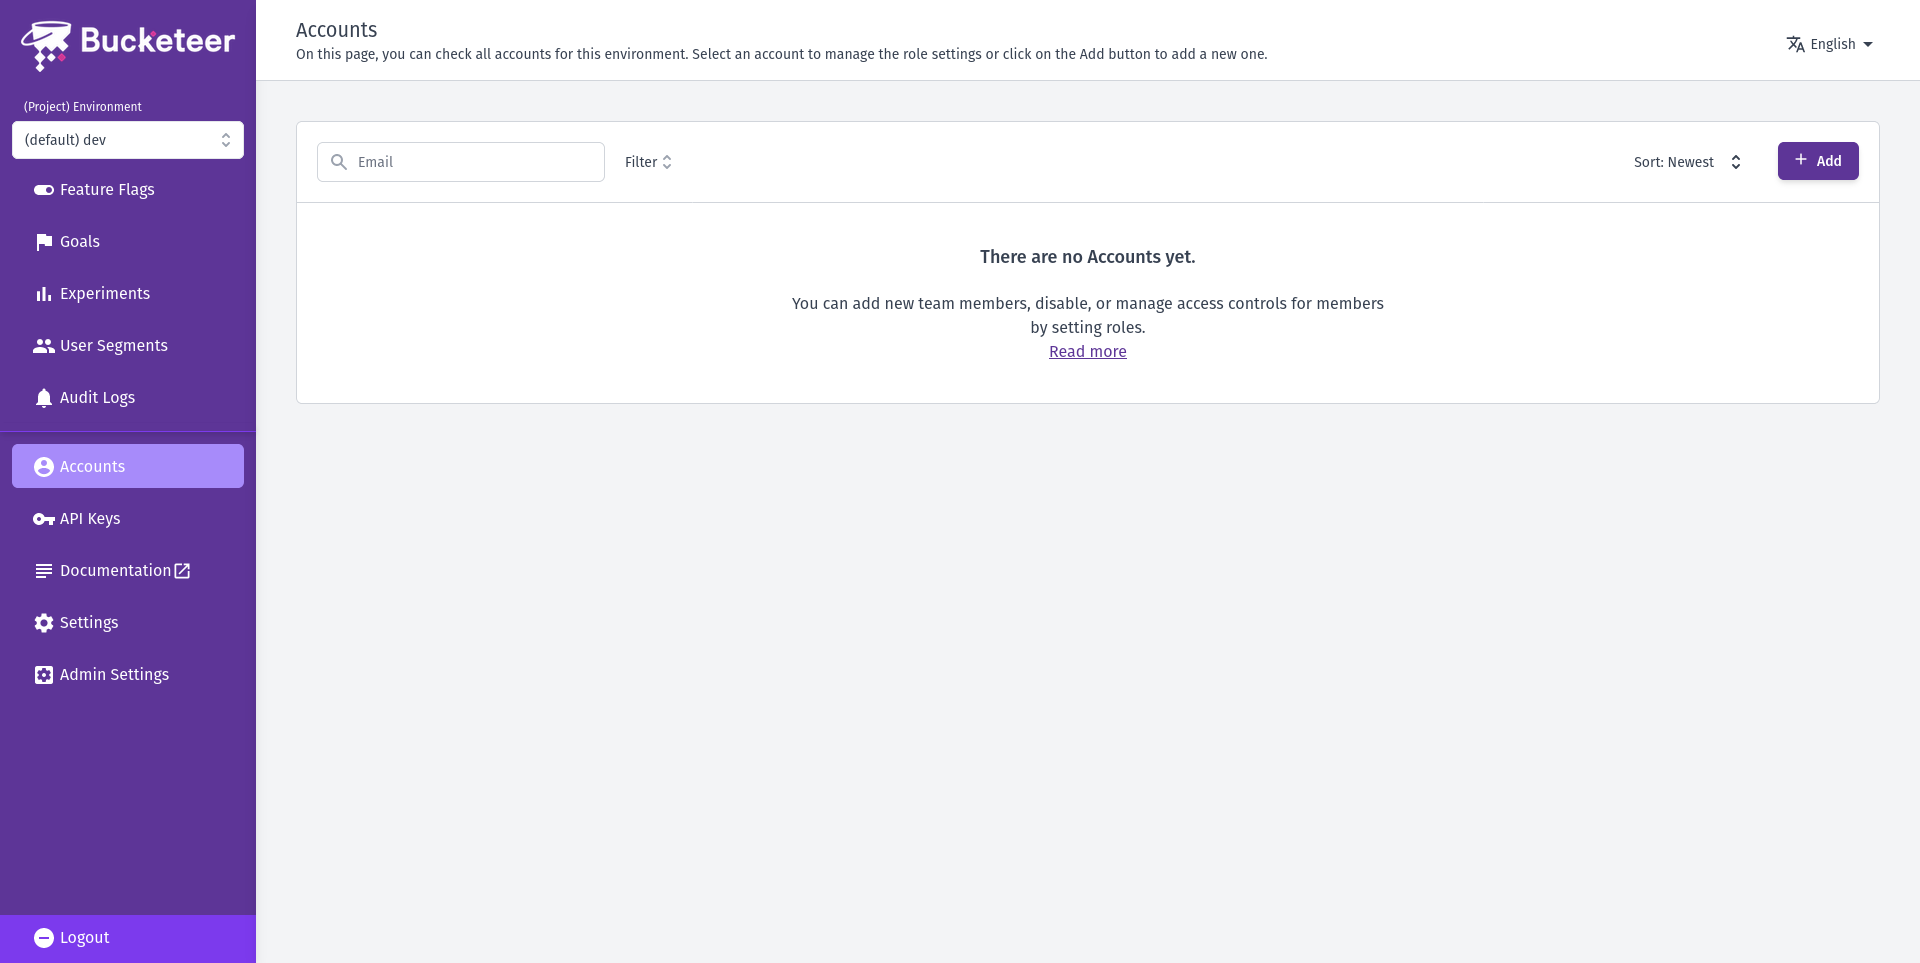
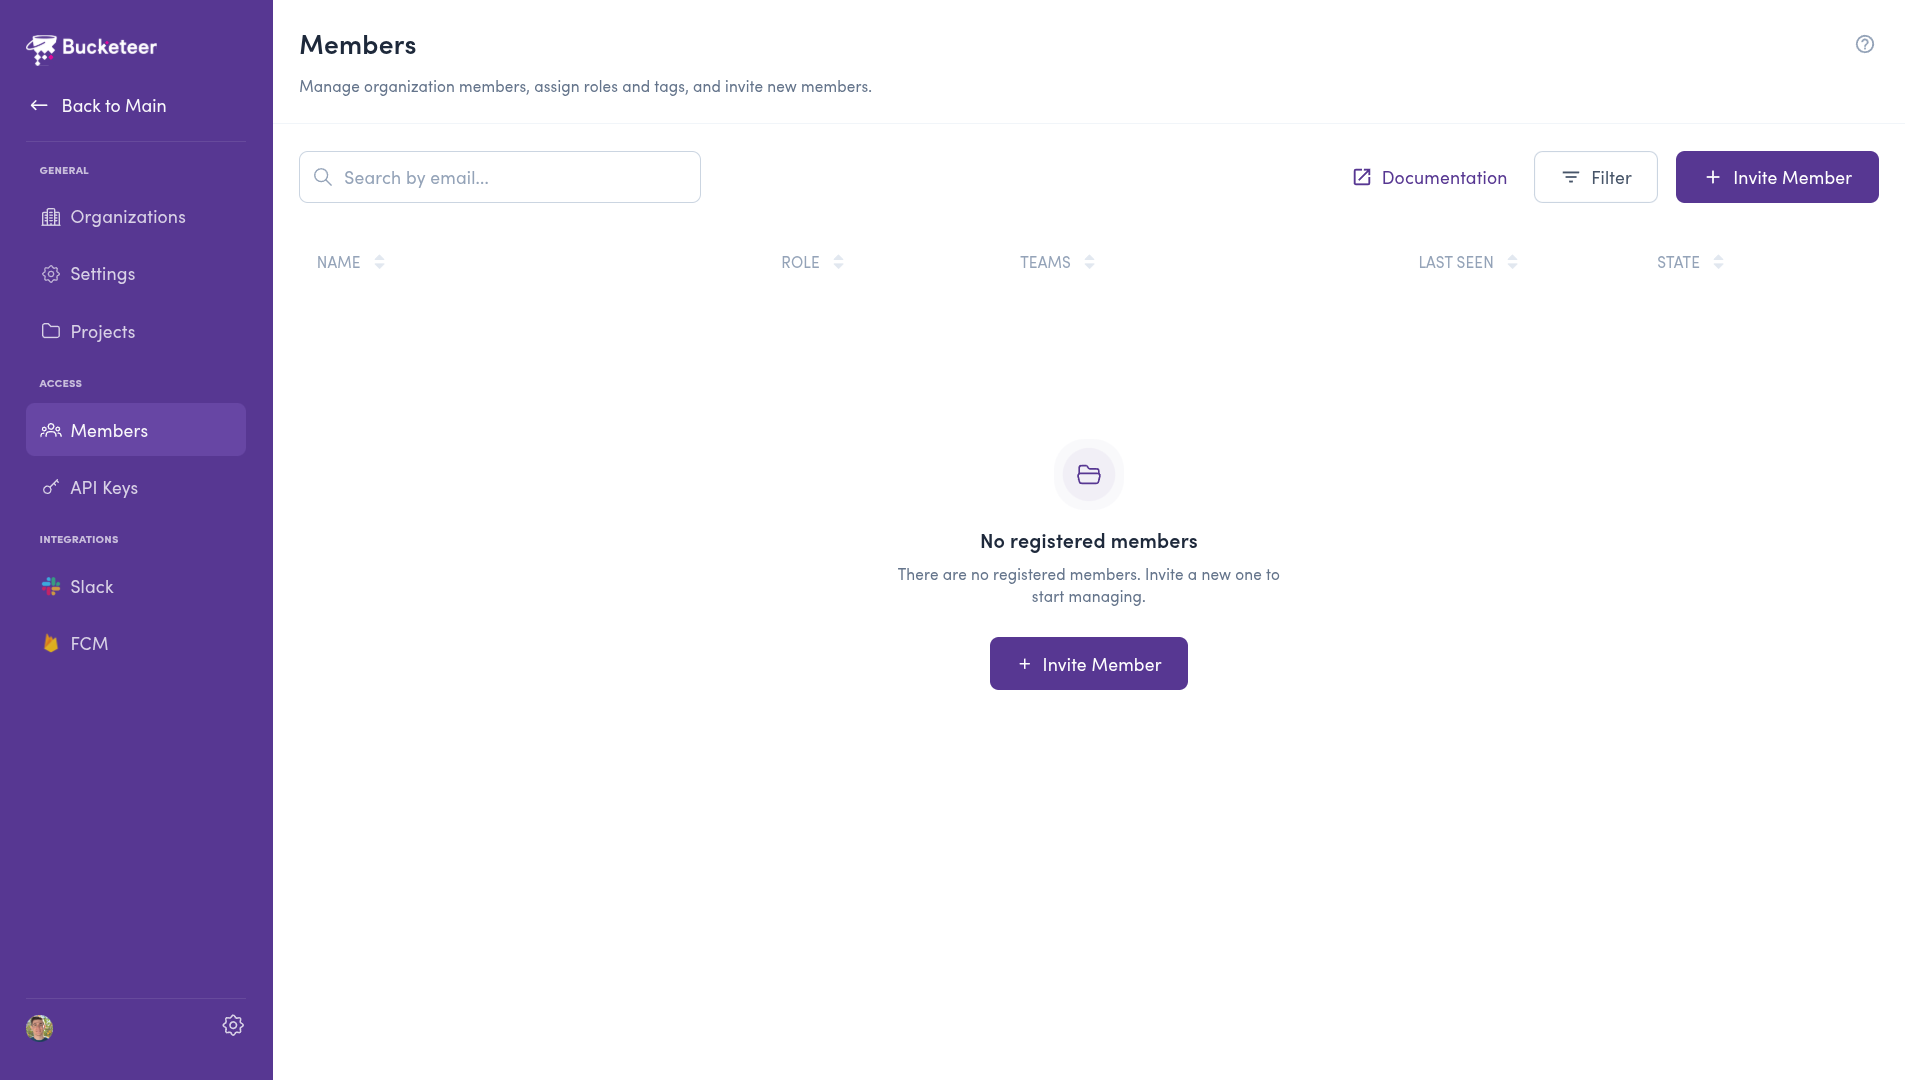
docs: update Create an Account

diff --git a/docs/getting-started/create-an-account.md b/docs/getting-started/create-an-account.md
@@ -11,9 +11,9 @@ Bucketeer allows you to manage and track data related to different environments.
 
 The following steps show how to create an account as an Admin.
 
-1. Select the target environment from the select menu on the top left.
-2. Navigate to the **Accounts** page from the sidebar menu.
-3. Click **+ Add** button to add a new account.
+1. Click on the gear icon on the sidebar menu.
+2. Select **Members**.
+3. Click **+ Invite Member** button to add a new account.
 
 <CenteredImg
   imgURL='img/getting-started/create-bucketeer-account-1.png'
@@ -22,7 +22,20 @@ The following steps show how to create an account as an Admin.
 />
 
 4. Enter the new member's email and define their role.
-5. Click **Submit** to create the account.
+
+    :::info Teams
+    You can create teams and assign members to it.
+    
+    Use teams to group members, making it easier when listing them on the list page.
+    ::::
+
+    :::info Role Member
+
+     When you assign the role Member to a new account, the owner can only access information related to the Environment you choose. These users are unable to create or update organization settings, projects, environments, API keys, or members.
+    ::::
+
+
+5. Click **Invite Member** to create the account.
 
 <CenteredImg 
   imgURL='img/getting-started/create-bucketeer-account-2.png'
